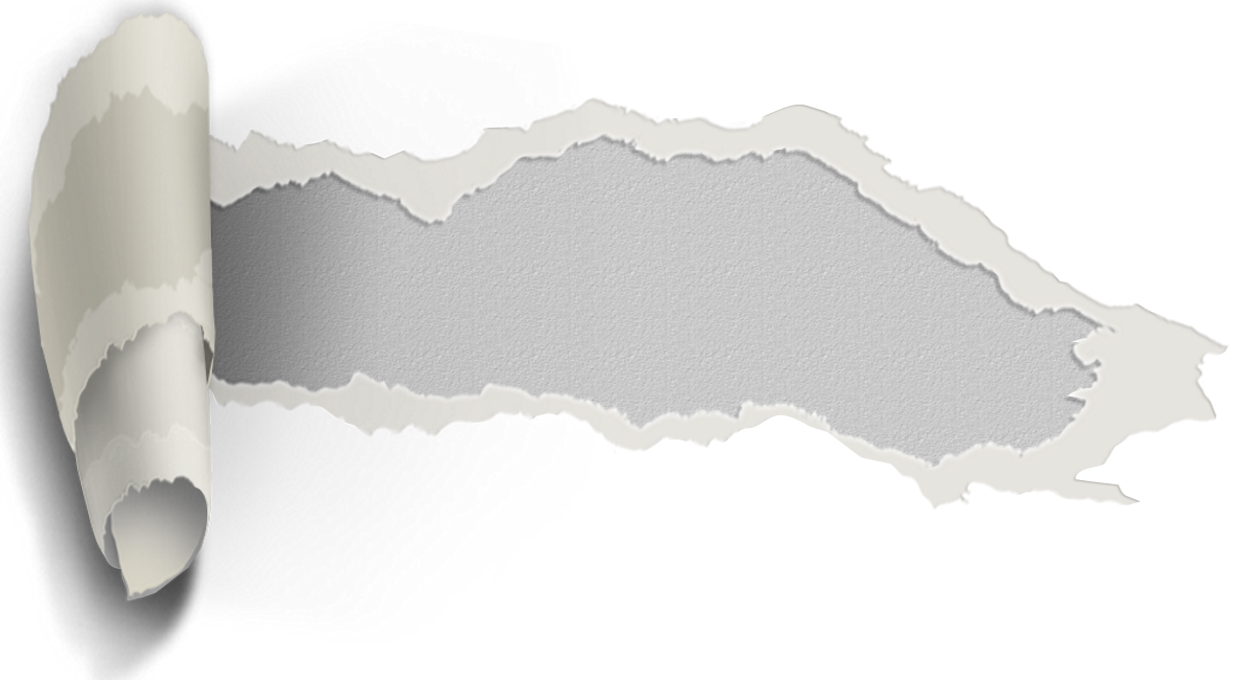
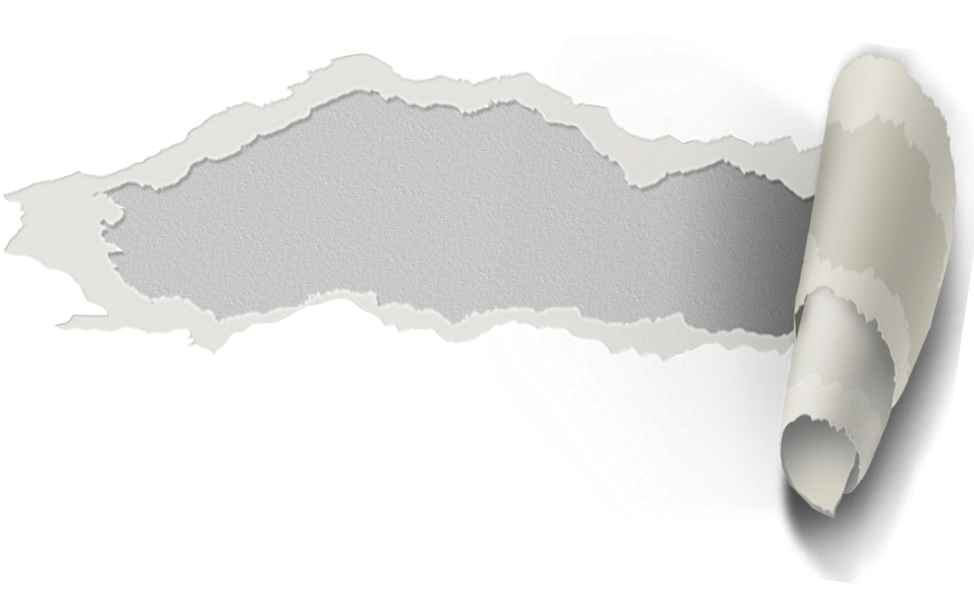
Changed layout

diff --git a/MattBaines/Content/Site.css b/MattBaines/Content/Site.css
@@ -80,16 +80,23 @@ header, #header {
     color: #000;
     padding: 0;
     width: 100%;
+    height: 105px;
 }
 
 #headercontainer {
     width:100%;
-    padding-top: 10px;
+    padding-top: 5px;
 }
 
 #headercontainerinner {
-    width: 156px;
+    width: 950px;
     margin: 0 auto;
+}
+
+#headercontainerinner img {
+    float: left;
+    margin-left: 20px;
+    display: block;
 }
 
 #headercontainerinner a {
@@ -127,6 +134,7 @@ header, #header {
 {
     width: 995px;
     margin: 0 auto;
+    clear: both;
 }
 
 footer, 
@@ -190,36 +198,24 @@ ul#menu li a:hover, ul#menu li.selected a
 
 #main #sidebar
 {
-
+    float:left;
     width: 220px;
     padding: 10px;
-    background: whiteSmoke;
-    /*background: #EAF0F6 url('./images/dashboard/separation-line.png') right 0px repeat-y;*/
-    -webkit-box-shadow: 5px 0px 5px rgba(70, 70, 70, 0.5);
-    -moz-box-shadow:    5px 0px 5px rgba(70, 70, 70, 0.5);
-    box-shadow:         5px 0px 5px rgba(70, 70, 70, 0.5);
-    border-right: 1px dashed #CCC;
     min-height: 500px;
     text-shadow: 0px 1px 0px rgba(255, 255, 255, 0.6);
-    z-index:9999;    
+    z-index:9999; 
 }
 
-#main #container
+#main #content
 {
-    margin: 15px;
-    padding:20px;
-    background: whiteSmoke;
-    -webkit-border-radius: 10px;
-    -moz-border-radius: 10px;
-    border-radius: 10px;
-    -webkit-box-shadow: 5px 5px 5px rgba(70, 70, 70, 0.5);
-    -moz-box-shadow:    5px 5px 5px rgba(70, 70, 70, 0.5);
-    box-shadow:         5px 5px 5px rgba(70, 70, 70, 0.5);
+    float:left;
+    width: 755px;
 }
 
 #main #sidebar ul
 {
     list-style-type: none;
+    margin-left: 5px;
 }
 
 #main #sidebar ul li
@@ -227,25 +223,17 @@ ul#menu li a:hover, ul#menu li.selected a
     display: block;
     height: 35px;
     padding: 0 10px 0 10px;
-    border-bottom: 1px solid #CCC;
     margin-right: 1px;
     font-weight: bold;
 }
 
 #main #sidebar ul li.selected {
-    background: #d8dfea;
     color: #666;
-    -webkit-box-shadow: inset 0 1px 0 rgba(255, 255, 255, 0.25);
-    -moz-box-shadow: inset 0 1px 0 rgba(255, 255, 255, 0.25);
-    box-shadow: inset 0 1px 0 rgba(255, 255, 255, 0.25);
 }
 
 #main #sidebar ul li:hover
 {
-    background: #f1f3f8;
-    -webkit-box-shadow: inset 0 1px 0 rgba(255, 255, 255, 0.6);
-    -moz-box-shadow: inset 0 1px 0 rgba(255, 255, 255, 0.6);
-    box-shadow: inset 0 1px 0 rgba(255, 255, 255, 0.6);
+    color: #666;
 }
 
 #main #sidebar ul li a
@@ -256,7 +244,7 @@ ul#menu li a:hover, ul#menu li.selected a
     color: #666;
     width: 100%;
     height: 100%;
-    text-transform: uppercase;
+    font-size: 3em;
 }
 
 /* FORM LAYOUT ELEMENTS   
@@ -505,9 +493,9 @@ label
 
 div#title {
     display: block;
-    padding-top: 115px;
-    padding-bottom: 60px;
-    text-align: left;  
+    padding-top: 5px;
+    padding-bottom: 5px;
+    text-align: left;
 }
 
 div.section_title {
@@ -519,7 +507,7 @@ div#title a
 {
     display: block;
     height: 100%;
-    width: 700px;
+    width: 220px;
     margin: 0 auto;
 }
 
@@ -766,11 +754,11 @@ ul.dropdown li:hover > ul 			{ visibility: visible; }
 
 .ac_object_list
 {
-    margin: 0 0 0 -240px;
-    padding: 0 0 0 240px;
+    margin: 0 -170px 0 -70px;
+    padding: 0 170px 0 70px;
     background: url('images/paper-tear.png') transparent no-repeat;
     height: 680px;
-    width: 995px;
+    width: 735px;
 }
 
 #advertisingcreative h4 {
@@ -787,8 +775,8 @@ ul.dropdown li:hover > ul 			{ visibility: visible; }
 .ac_object_list ul{
     list-style: none;
     position: relative;
-    top: 195px;
-    left: 0px;
+    top: 135px;
+    left: 60px;
     margin-left: 25px;
 }
 
@@ -813,7 +801,7 @@ ul.dropdown li:hover > ul 			{ visibility: visible; }
 
 .ac_category.BBH_Shanghai 
 {
-    margin-top: -70px;
+    margin-top: -40px;
 }
 
 .ac_category.Proactive_Work 
@@ -845,12 +833,12 @@ ul.dropdown li:hover > ul 			{ visibility: visible; }
 
 .ac_category.TBWA_London 
 {
-    margin-right: 150px;
+    margin-right: 10px;
 }
 
 .ac_category.TBWA_London, .ac_category.Momentum_Manchester
 {
-    margin-top: -150px;
+    margin-top: -200px;
 }
 
 #admin_content 

diff --git a/MattBaines/Scripts/Application/Application.js b/MattBaines/Scripts/Application/Application.js
@@ -90,6 +90,6 @@ $(document).ready(function () {
     });
     Cufon.replace('#advertisingcreative h4', { fontFamily: 'THURSTON_erc' });
     Cufon.replace('#advertisingcreative .section_title p', { fontFamily: 'Sketch Block' });
-    Cufon.replace('#ac_details h2', { fontFamily: 'Sketch Block' });
+    Cufon.replace('#main #sidebar ul li a', { fontFamily: 'THURSTON_erc' });
 });
 
